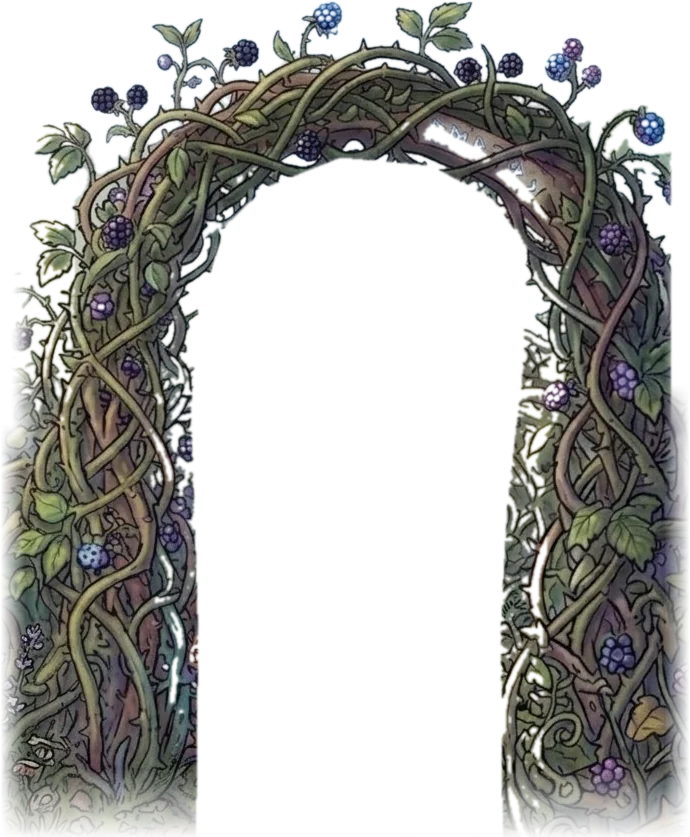
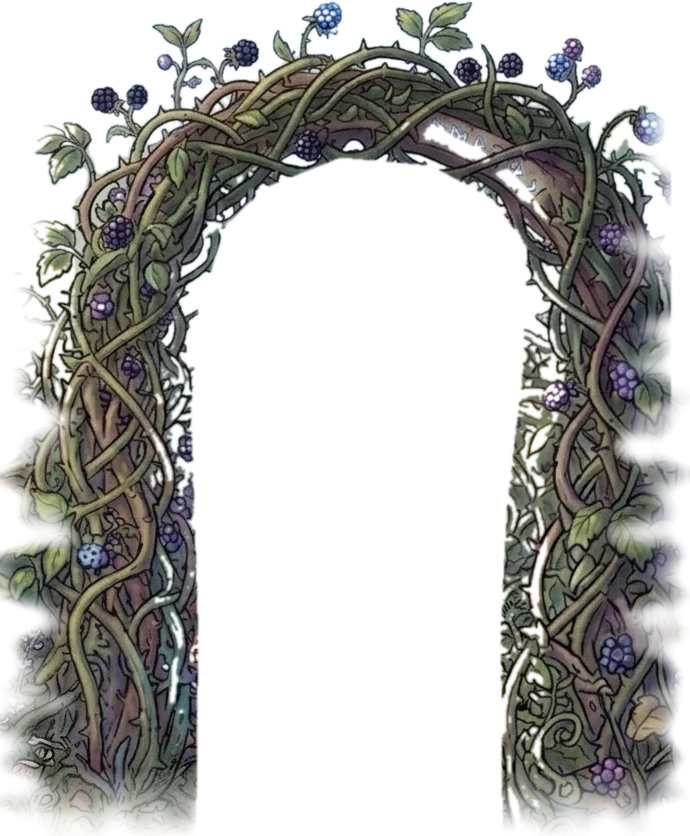
Stranglethorn: organic soft edges on hedges and arches, smooth see-through fade, fix fog seam
Claude-Session: https://claude.ai/code/session_016iBLHZqgtWrdG3jWmShjEG

diff --git a/index.html b/index.html
@@ -49,7 +49,7 @@ body{display:flex;justify-content:center}
 
 <script>
 const ATLAS_SRC="assets/lum_atlas_v5.webp?v=b5d321dc8e";
-const ASSET_SRC={"ground": "assets/ground.webp?v=c61ee31f5b", "rock1": "assets/rock1.webp?v=4e677f3831", "rock2": "assets/rock2.webp?v=7dd0569dcb", "rock3": "assets/rock3.webp?v=56b967ad67", "rock4": "assets/rock4.webp?v=0d1af80431", "cottage": "assets/cottage.webp?v=698443d54d", "cottage_win": "assets/cottage_win.webp?v=7aa924e07f", "cottage_runes": "assets/cottage_runes.webp?v=fedf57d4f3", "well2": "assets/well2.webp?v=af52a369ca", "signpost": "assets/signpost.webp?v=58d6cbc3c9", "runetree": "assets/runetree.webp?v=882fef9528", "runetree_runes": "assets/runetree_runes.webp?v=32432a9566", "forest_bg": "assets/forest_bg.webp?v=48e7441431", "wellroom": "assets/wellroom.webp?v=4c525760c2", "wellroom_runes": "assets/wellroom_runes.webp?v=f42530f4f2", "wellroom_nobucket": "assets/wellroom_nobucket.webp?v=f47f13a7c8", "bucket_hat": "assets/bucket_hat.webp?v=a26814e8f8", "bucket_worn": "assets/bucket_worn.webp?v=a493a15958", "jelly_idle": "assets/jelly_idle.webp?v=71fed74136", "jelly_lunge": "assets/jelly_lunge.webp?v=92b0dc4343", "studyroom": "assets/studyroom.webp?v=a45726d36c", "grave0": "assets/grave0.webp?v=ad382cac7a", "grave1": "assets/grave1.webp?v=cefcf7ebac", "grave2": "assets/grave2.webp?v=9878aa3e55", "grave3": "assets/grave3.webp?v=a7a223d89e", "grave4": "assets/grave4.webp?v=a1028b8b90", "grave5": "assets/grave5.webp?v=0e02f5ad47", "grave6": "assets/grave6.webp?v=d0d80e2012", "grave7": "assets/grave7.webp?v=63f26d00aa", "grave8": "assets/grave8.webp?v=23e439ffe1", "grave9": "assets/grave9.webp?v=e07c5d7e34", "grave10": "assets/grave10.webp?v=fc3c50105c", "grave11": "assets/grave11.webp?v=8c2b60ce50", "bedroom": "assets/bedroom.webp?v=2225ec5dde", "sleep_cos": "assets/sleep_cos.webp?v=1b3af569b0", "sleep_lum": "assets/sleep_lum.webp?v=cd742dd436", "shoproom": "assets/shoproom.webp?v=79fc4857bd", "pondroom": "assets/pondroom.webp?v=50b5134a4a", "pcol_l": "assets/pcol_l.webp?v=e9bb5ccd70", "pcol_r": "assets/pcol_r.webp?v=dbb98c3bbf", "shed": "assets/shed.webp?v=543a9519de", "shedroom": "assets/shedroom.webp?v=f4136aef1d", "mimic": "assets/mimic.webp?v=b4eccb2cc0", "skel": "assets/skel.webp?v=6bdb7d42b9", "fokalur": "assets/fokalur.webp?v=32e8fdde12", "gate": "assets/gate.webp?v=b13c3b515c", "hut": "assets/hut.webp?v=93968f3788", "icon_potion": "assets/icon_potion.webp?v=ead5b0d648", "icon_pouch_seal": "assets/icon_pouch_seal.webp?v=f5895d2c6b", "icon_pouch": "assets/icon_pouch.webp?v=1228805e30", "icon_pouch_rose": "assets/icon_pouch_rose.webp?v=9ce159b238", "icon_pouch_crystal": "assets/icon_pouch_crystal.webp?v=0f51c72ecd", "icon_stick": "assets/icon_stick.webp?v=7da6e80825", "icon_rod": "assets/icon_rod.webp?v=500c8ad5de", "icon_staff_crystal": "assets/icon_staff_crystal.webp?v=2fadb8e7cf", "icon_staff_unicorn": "assets/icon_staff_unicorn.webp?v=19aca18031", "icon_sword_wood": "assets/icon_sword_wood.webp?v=51208a1356", "icon_sword_iron": "assets/icon_sword_iron.webp?v=5d4e663c8b", "icon_blade_dark": "assets/icon_blade_dark.webp?v=f39a2c7691", "icon_sword_long": "assets/icon_sword_long.webp?v=e2ed18cc86", "icon_sword_rune": "assets/icon_sword_rune.webp?v=0950c74e57", "icon_boots_leather": "assets/icon_boots_leather.webp?v=735092ee0b", "icon_boots_rubber_green": "assets/icon_boots_rubber_green.webp?v=698906df6b", "icon_boots_chain": "assets/icon_boots_chain.webp?v=024ff688e1", "icon_boots_plate": "assets/icon_boots_plate.webp?v=74076691fc", "icon_boots_winged": "assets/icon_boots_winged.webp?v=8c4553d310", "icon_cloak_apprentice": "assets/icon_cloak_apprentice.webp?v=1d1a6ddb1f", "icon_cloak_undine": "assets/icon_cloak_undine.webp?v=940789d635", "icon_cloak_green": "assets/icon_cloak_green.webp?v=76adbc8f83", "icon_cloak_grey": "assets/icon_cloak_grey.webp?v=d59e43efdb", "icon_cape_stars": "assets/icon_cape_stars.webp?v=d6e7732a4b", "icon_cape_lion_red": "assets/icon_cape_lion_red.webp?v=71308a4082", "icon_cape_lion_white": "assets/icon_cape_lion_white.webp?v=898859a526", "icon_cape_wings": "assets/icon_cape_wings.webp?v=2f7ea8ce7c", "slugking": "assets/slugking.webp?v=2f01c887f5", "jelly_idle_moss": "assets/jelly_idle_moss.webp?v=86cd24ecd3", "jelly_lunge_moss": "assets/jelly_lunge_moss.webp?v=bb5e70117f", "rskel": "assets/rskel.webp?v=c21afe8d1f", "wisp": "assets/wisp.webp?v=5b64d7379a", "vane": "assets/vane.webp?v=ddc4dc4c1e", "reaper": "assets/reaper.webp?v=2d19da05f6", "vanehut": "assets/vanehut.webp?v=27acb20d56", "ing_duskberry": "assets/ing_duskberry.webp?v=227fa12fae", "ing_dewberry": "assets/ing_dewberry.webp?v=7acbb8f24a", "ing_emberberry": "assets/ing_emberberry.webp?v=182192d25f", "ing_leavesB5": "assets/ing_leavesB5.webp?v=670e67f484", "ing_slime": "assets/ing_slime.webp?v=2d52e374b9", "ing_bones": "assets/ing_bones.webp?v=d2f5252a5b", "ing_twig": "assets/ing_twig.webp?v=ce341bff86", "tool_lantern": "assets/tool_lantern.webp?v=b0badf9ba0", "tool_lantern_ornate": "assets/tool_lantern_ornate.webp?v=6d22a8b9d8", "tool_rune_compass": "assets/tool_rune_compass.webp?v=3d79732549", "emote_grab": "assets/emote_grab.webp?v=0210ee5f87", "icon4_boots_fur": "assets/icon4_boots_fur.webp?v=257380106a", "spider": "assets/spider.webp?v=2082b59414", "bat": "assets/bat.webp?v=8384f2ed44", "fox": "assets/fox.webp?v=d1d5a33797", "flora": "assets/flora.webp?v=b2984d2fc2", "bramble_arch": "assets/bramble_arch.webp?v=c3900fd9fd", "bramble_hedge": "assets/bramble_hedge.webp?v=f991de7a55", "oak_big": "assets/oak_big.webp?v=040deed49a", "webtree": "assets/webtree.webp?v=9c025b735f", "bwood_big": "assets/bwood_big.webp?v=cfb9ccc351", "bwood_small_a": "assets/bwood_small_a.webp?v=33d4334dc6", "bwood_small_b": "assets/bwood_small_b.webp?v=85c53e90a1", "bwood2_big": "assets/bwood2_big.webp?v=fdec0206c8", "bwood2_small_a": "assets/bwood2_small_a.webp?v=423d3b4f74", "bwood2_small_b": "assets/bwood2_small_b.webp?v=fc8a2edaac", "floor_st": "assets/floor_st.webp?v=c9eb0963f5", "thdec_stickweb": "assets/thdec_stickweb.webp?v=a0b5d29ef3", "thdec_mushweb": "assets/thdec_mushweb.webp?v=ef66bb87d1", "thdec_litterweb": "assets/thdec_litterweb.webp?v=55159b7bc4", "thdec_fernweb": "assets/thdec_fernweb.webp?v=835280ac84", "thdec_smallweb": "assets/thdec_smallweb.webp?v=ca6202bcd2", "thdec_log": "assets/thdec_log.webp?v=366093c3a6", "icon3_mortar_clay": "assets/icon3_mortar_clay.webp?v=79428386fe", "icon4_sun_bottle": "assets/icon4_sun_bottle.webp?v=814504de18", "icon3_frost_bowl": "assets/icon3_frost_bowl.webp?v=0e086c9798", "icon3_pastel_powders": "assets/icon3_pastel_powders.webp?v=f431b705e2", "icon2_cross_wood": "assets/icon2_cross_wood.webp?v=161f6ec751", "icon2_key_gold": "assets/icon2_key_gold.webp?v=8ff3771dd5", "hollow": "assets/hollow.webp?v=dfa726d993", "dun5": "assets/dun5.webp?v=85029c1dff", "dun4": "assets/dun4.webp?v=b46827d446", "dun3": "assets/dun3.webp?v=7a88b0e860", "dun2": "assets/dun2.webp?v=21d09cc1d9", "dun1": "assets/dun1.webp?v=06e6dc99cc", "acc_heart_ring": "assets/acc_heart_ring.webp?v=5bc343177a", "acc_braid_ring": "assets/acc_braid_ring.webp?v=ef878f119c", "acc_moon_necklace": "assets/acc_moon_necklace.webp?v=e57426d856", "acc_slime_ring": "assets/acc_slime_ring.webp?v=01154880ae", "acc_amethyst": "assets/acc_amethyst.webp?v=459ad65fc8", "acc_sunmoon_medal": "assets/acc_sunmoon_medal.webp?v=0ebb4c8567", "acc_lion_ring": "assets/acc_lion_ring.webp?v=d803438586", "acc_shell_necklace": "assets/acc_shell_necklace.webp?v=eb822dcaef", "acc_wing_brooch": "assets/acc_wing_brooch.webp?v=9e7d87c59b", "acc_moonstone_ring": "assets/acc_moonstone_ring.webp?v=ffda303e15", "sfg_chest": "assets/sfg_chest.webp?v=a472570ab1", "sfg_table": "assets/sfg_table.webp?v=013527fc10", "sfg_tableleg": "assets/sfg_tableleg.webp?v=1ad782e189", "sfg_side": "assets/sfg_side.webp?v=a4a3f2284f", "sfg_lectern": "assets/sfg_lectern.webp?v=c0df8fec54", "sfg_roots": "assets/sfg_roots.webp?v=c59040b279", "birch1": "assets/birch1.webp?v=b0ea24106f", "birch2": "assets/birch2.webp?v=2dd033eac7", "birch3": "assets/birch3.webp?v=e64553ecbd", "willow1": "assets/willow1.webp?v=98786f0c84", "cobble_strip": "assets/cobble_strip.webp?v=284855081b", "cobble_runes": "assets/cobble_runes.webp?v=07a4cad76e", "bridge0": "assets/bridge0.webp?v=c930b521f8", "bridge1": "assets/bridge1.webp?v=8e675faec7", "bridge2": "assets/bridge2.webp?v=65bc61c470", "bridge3": "assets/bridge3.webp?v=153e2f5c59", "bridge4": "assets/bridge4.webp?v=b6ff9fef90", "drained0": "assets/drained0.webp?v=dee278254d", "drained1": "assets/drained1.webp?v=c38f30e4a2", "drained2": "assets/drained2.webp?v=c2abd46393", "drained3": "assets/drained3.webp?v=d0408dce90", "drained4": "assets/drained4.webp?v=49fe89ce29", "drained5": "assets/drained5.webp?v=8b2a410ea1", "drained6": "assets/drained6.webp?v=b735f267b4", "drained7": "assets/drained7.webp?v=aefa2993f7", "drained8": "assets/drained8.webp?v=e853833327", "drained9": "assets/drained9.webp?v=9a5541fe81", "shrub0": "assets/shrub0.webp?v=f9f7df7aac", "shrub1": "assets/shrub1.webp?v=f4825b0d48", "shrub2": "assets/shrub2.webp?v=b0edbbd898", "shrub3": "assets/shrub3.webp?v=bc7a089a89", "shrub4": "assets/shrub4.webp?v=bb66d76d2e", "shrub5": "assets/shrub5.webp?v=ffbae35557", "shrub6": "assets/shrub6.webp?v=1c234a4c17", "shrub7": "assets/shrub7.webp?v=5b1a8119f9", "shrub8": "assets/shrub8.webp?v=a937edbbf3", "shrub9": "assets/shrub9.webp?v=dfb2f54698", "shrub10": "assets/shrub10.webp?v=5c2dd38d41", "shrub11": "assets/shrub11.webp?v=3faa1b4736", "bird0": "assets/bird0.webp?v=7d5d2404e5", "bird1": "assets/bird1.webp?v=eb12c73b19", "bird2": "assets/bird2.webp?v=ca02415237", "bird3": "assets/bird3.webp?v=42efa7eb02", "bird4": "assets/bird4.webp?v=7a9329e236", "bird5": "assets/bird5.webp?v=90bd3aa6a3", "bird6": "assets/bird6.webp?v=0a764f8ed6", "bird7": "assets/bird7.webp?v=04e3aa6d61", "bird8": "assets/bird8.webp?v=11cac9e48b", "bird9": "assets/bird9.webp?v=209732f271", "bird10": "assets/bird10.webp?v=518afeccc0", "bird11": "assets/bird11.webp?v=41c18c5083", "bird12": "assets/bird12.webp?v=9250bb7453", "topi_cube": "assets/topi_cube.webp?v=1fc6082fd5", "topi_ball": "assets/topi_ball.webp?v=78a3cfcc82", "topi_spiral": "assets/topi_spiral.webp?v=d6ac5cd38a", "topi_cone": "assets/topi_cone.webp?v=67e11f2900"};
+const ASSET_SRC={"ground": "assets/ground.webp?v=c61ee31f5b", "rock1": "assets/rock1.webp?v=4e677f3831", "rock2": "assets/rock2.webp?v=7dd0569dcb", "rock3": "assets/rock3.webp?v=56b967ad67", "rock4": "assets/rock4.webp?v=0d1af80431", "cottage": "assets/cottage.webp?v=698443d54d", "cottage_win": "assets/cottage_win.webp?v=7aa924e07f", "cottage_runes": "assets/cottage_runes.webp?v=fedf57d4f3", "well2": "assets/well2.webp?v=af52a369ca", "signpost": "assets/signpost.webp?v=58d6cbc3c9", "runetree": "assets/runetree.webp?v=882fef9528", "runetree_runes": "assets/runetree_runes.webp?v=32432a9566", "forest_bg": "assets/forest_bg.webp?v=48e7441431", "wellroom": "assets/wellroom.webp?v=4c525760c2", "wellroom_runes": "assets/wellroom_runes.webp?v=f42530f4f2", "wellroom_nobucket": "assets/wellroom_nobucket.webp?v=f47f13a7c8", "bucket_hat": "assets/bucket_hat.webp?v=a26814e8f8", "bucket_worn": "assets/bucket_worn.webp?v=a493a15958", "jelly_idle": "assets/jelly_idle.webp?v=71fed74136", "jelly_lunge": "assets/jelly_lunge.webp?v=92b0dc4343", "studyroom": "assets/studyroom.webp?v=a45726d36c", "grave0": "assets/grave0.webp?v=ad382cac7a", "grave1": "assets/grave1.webp?v=cefcf7ebac", "grave2": "assets/grave2.webp?v=9878aa3e55", "grave3": "assets/grave3.webp?v=a7a223d89e", "grave4": "assets/grave4.webp?v=a1028b8b90", "grave5": "assets/grave5.webp?v=0e02f5ad47", "grave6": "assets/grave6.webp?v=d0d80e2012", "grave7": "assets/grave7.webp?v=63f26d00aa", "grave8": "assets/grave8.webp?v=23e439ffe1", "grave9": "assets/grave9.webp?v=e07c5d7e34", "grave10": "assets/grave10.webp?v=fc3c50105c", "grave11": "assets/grave11.webp?v=8c2b60ce50", "bedroom": "assets/bedroom.webp?v=2225ec5dde", "sleep_cos": "assets/sleep_cos.webp?v=1b3af569b0", "sleep_lum": "assets/sleep_lum.webp?v=cd742dd436", "shoproom": "assets/shoproom.webp?v=79fc4857bd", "pondroom": "assets/pondroom.webp?v=50b5134a4a", "pcol_l": "assets/pcol_l.webp?v=e9bb5ccd70", "pcol_r": "assets/pcol_r.webp?v=dbb98c3bbf", "shed": "assets/shed.webp?v=543a9519de", "shedroom": "assets/shedroom.webp?v=f4136aef1d", "mimic": "assets/mimic.webp?v=b4eccb2cc0", "skel": "assets/skel.webp?v=6bdb7d42b9", "fokalur": "assets/fokalur.webp?v=32e8fdde12", "gate": "assets/gate.webp?v=b13c3b515c", "hut": "assets/hut.webp?v=93968f3788", "icon_potion": "assets/icon_potion.webp?v=ead5b0d648", "icon_pouch_seal": "assets/icon_pouch_seal.webp?v=f5895d2c6b", "icon_pouch": "assets/icon_pouch.webp?v=1228805e30", "icon_pouch_rose": "assets/icon_pouch_rose.webp?v=9ce159b238", "icon_pouch_crystal": "assets/icon_pouch_crystal.webp?v=0f51c72ecd", "icon_stick": "assets/icon_stick.webp?v=7da6e80825", "icon_rod": "assets/icon_rod.webp?v=500c8ad5de", "icon_staff_crystal": "assets/icon_staff_crystal.webp?v=2fadb8e7cf", "icon_staff_unicorn": "assets/icon_staff_unicorn.webp?v=19aca18031", "icon_sword_wood": "assets/icon_sword_wood.webp?v=51208a1356", "icon_sword_iron": "assets/icon_sword_iron.webp?v=5d4e663c8b", "icon_blade_dark": "assets/icon_blade_dark.webp?v=f39a2c7691", "icon_sword_long": "assets/icon_sword_long.webp?v=e2ed18cc86", "icon_sword_rune": "assets/icon_sword_rune.webp?v=0950c74e57", "icon_boots_leather": "assets/icon_boots_leather.webp?v=735092ee0b", "icon_boots_rubber_green": "assets/icon_boots_rubber_green.webp?v=698906df6b", "icon_boots_chain": "assets/icon_boots_chain.webp?v=024ff688e1", "icon_boots_plate": "assets/icon_boots_plate.webp?v=74076691fc", "icon_boots_winged": "assets/icon_boots_winged.webp?v=8c4553d310", "icon_cloak_apprentice": "assets/icon_cloak_apprentice.webp?v=1d1a6ddb1f", "icon_cloak_undine": "assets/icon_cloak_undine.webp?v=940789d635", "icon_cloak_green": "assets/icon_cloak_green.webp?v=76adbc8f83", "icon_cloak_grey": "assets/icon_cloak_grey.webp?v=d59e43efdb", "icon_cape_stars": "assets/icon_cape_stars.webp?v=d6e7732a4b", "icon_cape_lion_red": "assets/icon_cape_lion_red.webp?v=71308a4082", "icon_cape_lion_white": "assets/icon_cape_lion_white.webp?v=898859a526", "icon_cape_wings": "assets/icon_cape_wings.webp?v=2f7ea8ce7c", "slugking": "assets/slugking.webp?v=2f01c887f5", "jelly_idle_moss": "assets/jelly_idle_moss.webp?v=86cd24ecd3", "jelly_lunge_moss": "assets/jelly_lunge_moss.webp?v=bb5e70117f", "rskel": "assets/rskel.webp?v=c21afe8d1f", "wisp": "assets/wisp.webp?v=5b64d7379a", "vane": "assets/vane.webp?v=ddc4dc4c1e", "reaper": "assets/reaper.webp?v=2d19da05f6", "vanehut": "assets/vanehut.webp?v=27acb20d56", "ing_duskberry": "assets/ing_duskberry.webp?v=227fa12fae", "ing_dewberry": "assets/ing_dewberry.webp?v=7acbb8f24a", "ing_emberberry": "assets/ing_emberberry.webp?v=182192d25f", "ing_leavesB5": "assets/ing_leavesB5.webp?v=670e67f484", "ing_slime": "assets/ing_slime.webp?v=2d52e374b9", "ing_bones": "assets/ing_bones.webp?v=d2f5252a5b", "ing_twig": "assets/ing_twig.webp?v=ce341bff86", "tool_lantern": "assets/tool_lantern.webp?v=b0badf9ba0", "tool_lantern_ornate": "assets/tool_lantern_ornate.webp?v=6d22a8b9d8", "tool_rune_compass": "assets/tool_rune_compass.webp?v=3d79732549", "emote_grab": "assets/emote_grab.webp?v=0210ee5f87", "icon4_boots_fur": "assets/icon4_boots_fur.webp?v=257380106a", "spider": "assets/spider.webp?v=2082b59414", "bat": "assets/bat.webp?v=8384f2ed44", "fox": "assets/fox.webp?v=d1d5a33797", "flora": "assets/flora.webp?v=b2984d2fc2", "bramble_arch": "assets/bramble_arch.webp?v=f4f04cdb52", "bramble_hedge": "assets/bramble_hedge.webp?v=d4eccc44e3", "oak_big": "assets/oak_big.webp?v=040deed49a", "webtree": "assets/webtree.webp?v=9c025b735f", "bwood_big": "assets/bwood_big.webp?v=cfb9ccc351", "bwood_small_a": "assets/bwood_small_a.webp?v=33d4334dc6", "bwood_small_b": "assets/bwood_small_b.webp?v=85c53e90a1", "bwood2_big": "assets/bwood2_big.webp?v=fdec0206c8", "bwood2_small_a": "assets/bwood2_small_a.webp?v=423d3b4f74", "bwood2_small_b": "assets/bwood2_small_b.webp?v=fc8a2edaac", "floor_st": "assets/floor_st.webp?v=c9eb0963f5", "thdec_stickweb": "assets/thdec_stickweb.webp?v=a0b5d29ef3", "thdec_mushweb": "assets/thdec_mushweb.webp?v=ef66bb87d1", "thdec_litterweb": "assets/thdec_litterweb.webp?v=55159b7bc4", "thdec_fernweb": "assets/thdec_fernweb.webp?v=835280ac84", "thdec_smallweb": "assets/thdec_smallweb.webp?v=ca6202bcd2", "thdec_log": "assets/thdec_log.webp?v=366093c3a6", "icon3_mortar_clay": "assets/icon3_mortar_clay.webp?v=79428386fe", "icon4_sun_bottle": "assets/icon4_sun_bottle.webp?v=814504de18", "icon3_frost_bowl": "assets/icon3_frost_bowl.webp?v=0e086c9798", "icon3_pastel_powders": "assets/icon3_pastel_powders.webp?v=f431b705e2", "icon2_cross_wood": "assets/icon2_cross_wood.webp?v=161f6ec751", "icon2_key_gold": "assets/icon2_key_gold.webp?v=8ff3771dd5", "hollow": "assets/hollow.webp?v=dfa726d993", "dun5": "assets/dun5.webp?v=85029c1dff", "dun4": "assets/dun4.webp?v=b46827d446", "dun3": "assets/dun3.webp?v=7a88b0e860", "dun2": "assets/dun2.webp?v=21d09cc1d9", "dun1": "assets/dun1.webp?v=06e6dc99cc", "acc_heart_ring": "assets/acc_heart_ring.webp?v=5bc343177a", "acc_braid_ring": "assets/acc_braid_ring.webp?v=ef878f119c", "acc_moon_necklace": "assets/acc_moon_necklace.webp?v=e57426d856", "acc_slime_ring": "assets/acc_slime_ring.webp?v=01154880ae", "acc_amethyst": "assets/acc_amethyst.webp?v=459ad65fc8", "acc_sunmoon_medal": "assets/acc_sunmoon_medal.webp?v=0ebb4c8567", "acc_lion_ring": "assets/acc_lion_ring.webp?v=d803438586", "acc_shell_necklace": "assets/acc_shell_necklace.webp?v=eb822dcaef", "acc_wing_brooch": "assets/acc_wing_brooch.webp?v=9e7d87c59b", "acc_moonstone_ring": "assets/acc_moonstone_ring.webp?v=ffda303e15", "sfg_chest": "assets/sfg_chest.webp?v=a472570ab1", "sfg_table": "assets/sfg_table.webp?v=013527fc10", "sfg_tableleg": "assets/sfg_tableleg.webp?v=1ad782e189", "sfg_side": "assets/sfg_side.webp?v=a4a3f2284f", "sfg_lectern": "assets/sfg_lectern.webp?v=c0df8fec54", "sfg_roots": "assets/sfg_roots.webp?v=c59040b279", "birch1": "assets/birch1.webp?v=b0ea24106f", "birch2": "assets/birch2.webp?v=2dd033eac7", "birch3": "assets/birch3.webp?v=e64553ecbd", "willow1": "assets/willow1.webp?v=98786f0c84", "cobble_strip": "assets/cobble_strip.webp?v=284855081b", "cobble_runes": "assets/cobble_runes.webp?v=07a4cad76e", "bridge0": "assets/bridge0.webp?v=c930b521f8", "bridge1": "assets/bridge1.webp?v=8e675faec7", "bridge2": "assets/bridge2.webp?v=65bc61c470", "bridge3": "assets/bridge3.webp?v=153e2f5c59", "bridge4": "assets/bridge4.webp?v=b6ff9fef90", "drained0": "assets/drained0.webp?v=dee278254d", "drained1": "assets/drained1.webp?v=c38f30e4a2", "drained2": "assets/drained2.webp?v=c2abd46393", "drained3": "assets/drained3.webp?v=d0408dce90", "drained4": "assets/drained4.webp?v=49fe89ce29", "drained5": "assets/drained5.webp?v=8b2a410ea1", "drained6": "assets/drained6.webp?v=b735f267b4", "drained7": "assets/drained7.webp?v=aefa2993f7", "drained8": "assets/drained8.webp?v=e853833327", "drained9": "assets/drained9.webp?v=9a5541fe81", "shrub0": "assets/shrub0.webp?v=f9f7df7aac", "shrub1": "assets/shrub1.webp?v=f4825b0d48", "shrub2": "assets/shrub2.webp?v=b0edbbd898", "shrub3": "assets/shrub3.webp?v=bc7a089a89", "shrub4": "assets/shrub4.webp?v=bb66d76d2e", "shrub5": "assets/shrub5.webp?v=ffbae35557", "shrub6": "assets/shrub6.webp?v=1c234a4c17", "shrub7": "assets/shrub7.webp?v=5b1a8119f9", "shrub8": "assets/shrub8.webp?v=a937edbbf3", "shrub9": "assets/shrub9.webp?v=dfb2f54698", "shrub10": "assets/shrub10.webp?v=5c2dd38d41", "shrub11": "assets/shrub11.webp?v=3faa1b4736", "bird0": "assets/bird0.webp?v=7d5d2404e5", "bird1": "assets/bird1.webp?v=eb12c73b19", "bird2": "assets/bird2.webp?v=ca02415237", "bird3": "assets/bird3.webp?v=42efa7eb02", "bird4": "assets/bird4.webp?v=7a9329e236", "bird5": "assets/bird5.webp?v=90bd3aa6a3", "bird6": "assets/bird6.webp?v=0a764f8ed6", "bird7": "assets/bird7.webp?v=04e3aa6d61", "bird8": "assets/bird8.webp?v=11cac9e48b", "bird9": "assets/bird9.webp?v=209732f271", "bird10": "assets/bird10.webp?v=518afeccc0", "bird11": "assets/bird11.webp?v=41c18c5083", "bird12": "assets/bird12.webp?v=9250bb7453", "topi_cube": "assets/topi_cube.webp?v=1fc6082fd5", "topi_ball": "assets/topi_ball.webp?v=78a3cfcc82", "topi_spiral": "assets/topi_spiral.webp?v=d6ac5cd38a", "topi_cone": "assets/topi_cone.webp?v=67e11f2900"};
 const COSMIC_SRC="assets/cosmic_atlas.webp?v=f87006b14b";
 const SLUG_SRC="assets/slug_atlas.webp?v=0aa482f919";
 (()=>{
@@ -2936,7 +2936,7 @@ function makeFogTex(){const N=256,c=document.createElement('canvas');c.width=c.h
     const a=Math.max(0,Math.min(1,(f-.38)/.42));const i=(y*N+x)*4;d[i]=d[i+1]=d[i+2]=255;d[i+3]=Math.round(a*a*(3-2*a)*255);}
   g.putImageData(im,0,0);return c;}
 function fogLayer(tex,scale,ox,oy,alpha,tint){const S=256*scale;const sx=((ox%S)+S)%S,sy=((oy%S)+S)%S;ctx.save();ctx.globalAlpha=alpha;
-  for(let y=-sy;y<H;y+=S)for(let x=-sx;x<W;x+=S)ctx.drawImage(tex,x,y,S+1,S+1);
+  const Si=Math.round(S);for(let y=-Math.round(sy);y<H;y+=Si)for(let x=-Math.round(sx);x<W;x+=Si)ctx.drawImage(tex,x,y,Si,Si);
   ctx.restore();}
 function drawThornFog(pass){if(!THFOG){THFOG=makeFogTex();THFOG.tint=document.createElement('canvas');THFOG.tint.width=THFOG.tint.height=256;const g=THFOG.tint.getContext('2d');g.drawImage(THFOG,0,0);g.globalCompositeOperation='source-in';g.fillStyle='rgb(188,182,204)';g.fillRect(0,0,256,256);
     THFOG.red=document.createElement('canvas');THFOG.red.width=THFOG.red.height=256;const g2=THFOG.red.getContext('2d');g2.drawImage(THFOG,0,0);g2.globalCompositeOperation='source-in';g2.fillStyle='rgb(150,96,112)';g2.fillRect(0,0,256,256);}
@@ -2975,7 +2975,7 @@ function drawThorn(){const vw=W/zoom,vh=H/zoom,x0=cam.x-vw/2-60,y0=cam.y-vh/2-60
   for(const d of THORN.decals||[]){const im=IMG[d.n];if(!ready(im))continue;const h=d.w*im.naturalHeight/im.naturalWidth;if(d.x+d.w/2<x0||d.x-d.w/2>x1||d.y+h/2<y0||d.y-h/2>y1)continue;ctx.save();ctx.translate(d.x,d.y);if(d.flip)ctx.scale(-1,1);ctx.drawImage(im,-d.w/2,-h/2,d.w,h);ctx.restore();}
   for(const f of THORN.flowers)if(f.x>x0-30&&f.x<x1+30&&f.y>y0-30&&f.y<y1)drawRedFlowers(f.x,f.y,f.s,f.seed);
   const L=[];for(const o of THORN.props)if(o.x>x0-o.w/2-40&&o.x<x1+o.w/2+40&&o.y>y0-20&&o.y<y1+o.w*1.4)L.push([o.y,o]);L.push([lum.y,null]);L.sort((a,b)=>a[0]-b[0]);
-  let past=false;for(const [,o] of L){if(!o){drawLum();past=true;continue;}const near=past&&Math.abs(o.x-lum.x)<o.w*.42&&o.y-lum.y<o.w*.95;drawThornProp(o,near?(o.t==='arch'?.6:.42):1);}
+  let past=false;for(const [,o] of L){if(!o){drawLum();past=true;continue;}let fa=1;if(past){const kx=clamp(1-(Math.abs(o.x-lum.x)-o.w*.2)/(o.w*.3),0,1),ky=clamp(1-(o.y-lum.y-o.w*.7)/(o.w*.35),0,1);fa=1-kx*ky*(o.t==='arch'?.4:.58);}drawThornProp(o,fa);}
   drawThornMotes();
   ctx.save();ctx.globalCompositeOperation='lighter';for(const m of THORN.mist){if(m.x<x0-m.r||m.x>x1+m.r||m.y<y0-m.r||m.y>y1+m.r)continue;drawGlow(ctx,m.x+Math.sin(T*.08+m.ph)*50,m.y,m.r,'150,90,110',.05+.025*Math.sin(T*.4+m.ph));}ctx.restore();
   ctx.setTransform(DPR,0,0,DPR,0,0);
